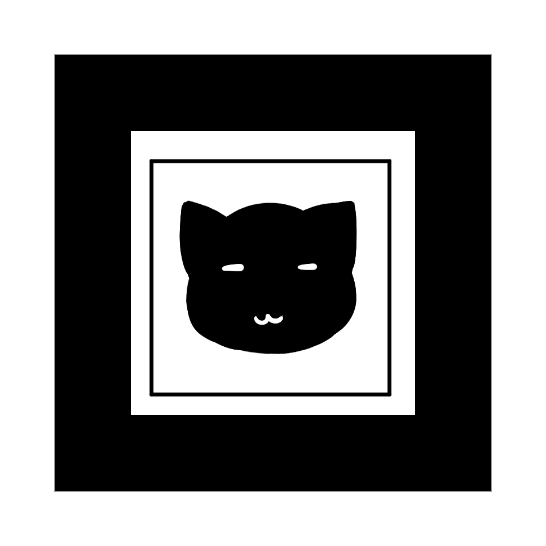
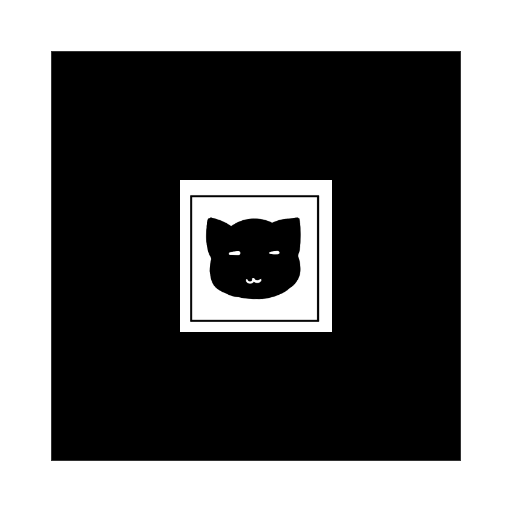
gghjmkhgfds

Changed region(s): [[0.2188, 0.2188, 0.7812, 0.7812], [0.0938, 0.0938, 0.9062, 0.9062]]

diff --git a/custom-pattern-markers/index.html b/custom-pattern-markers/index.html
@@ -14,7 +14,7 @@
     <a-marker type="pattern" url="assets/Nike_400.patt">
       <a-image src="#cat" width="3" height="1.5" rotation="90 0 0"></a-image>
     </a-marker>
-    <a-marker preset='custom' type="pattern" url="assets/pattern-catmarker.patt">
+    <a-marker preset='custom' type="pattern" url="assets/pattern-blackcatmarker.patt">
       <a-image src="#cat" width="3" height="1.5" rotation="90 0 0"></a-image>
     </a-marker>
     <a-entity camera=""></a-entity>
